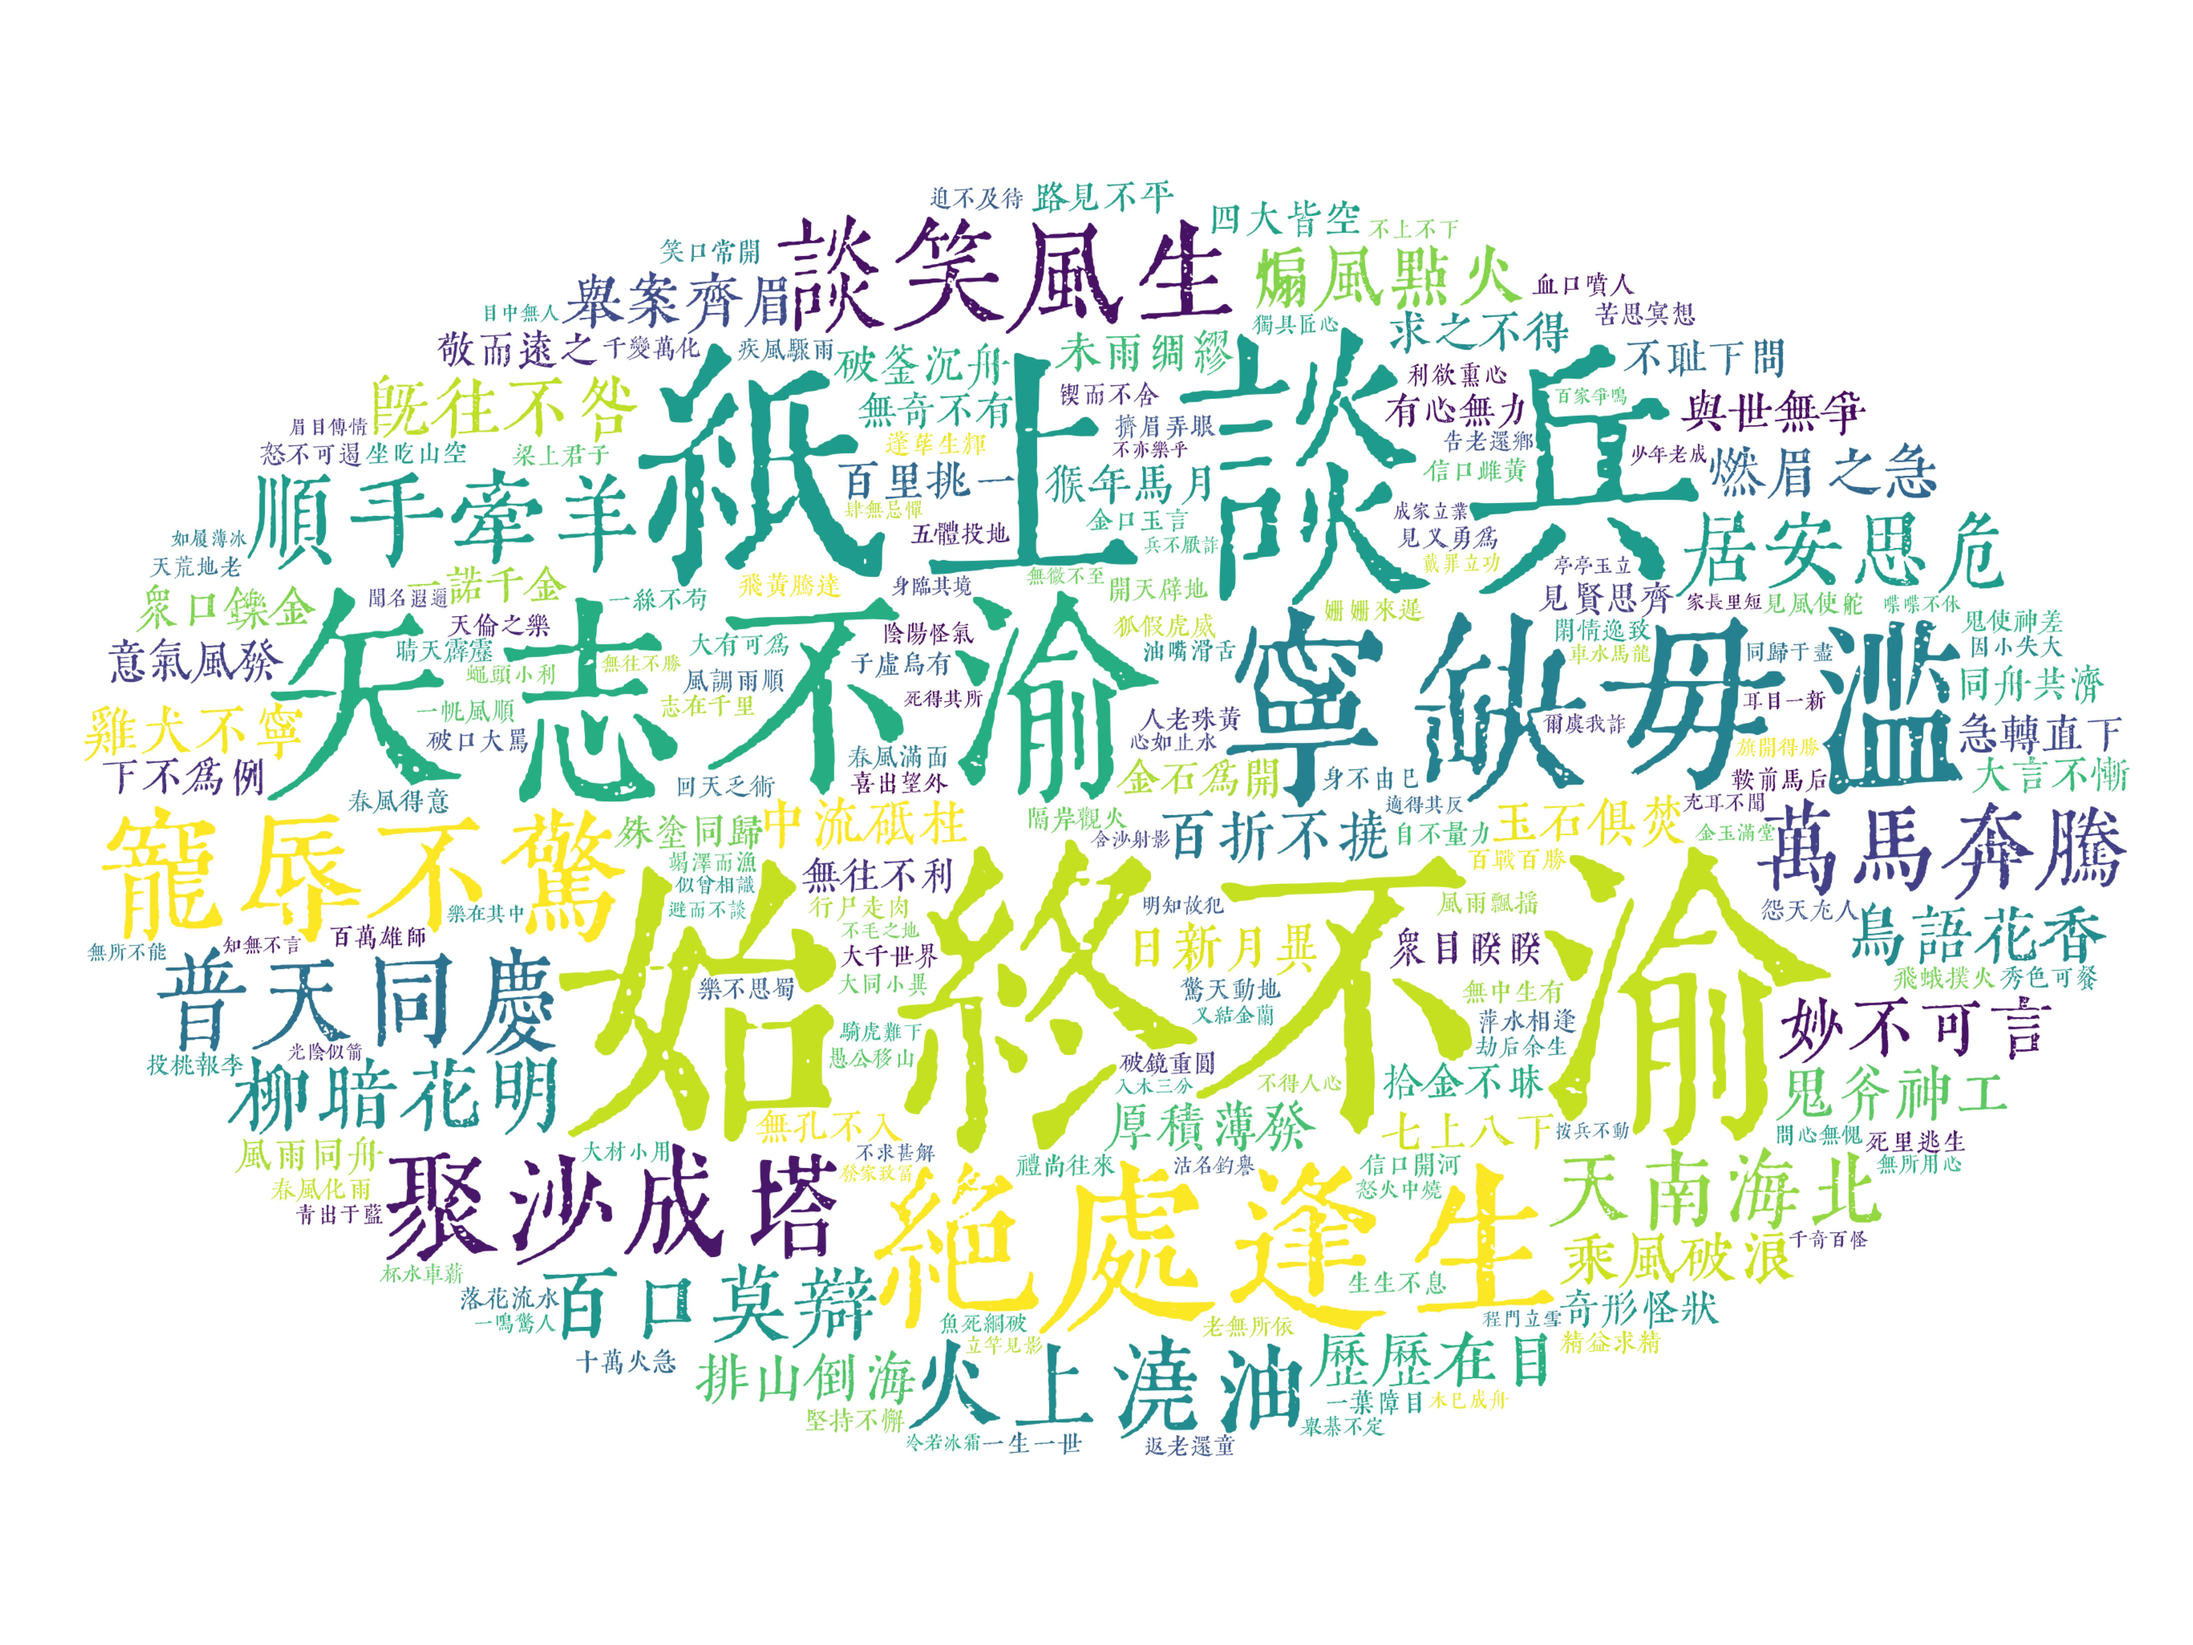
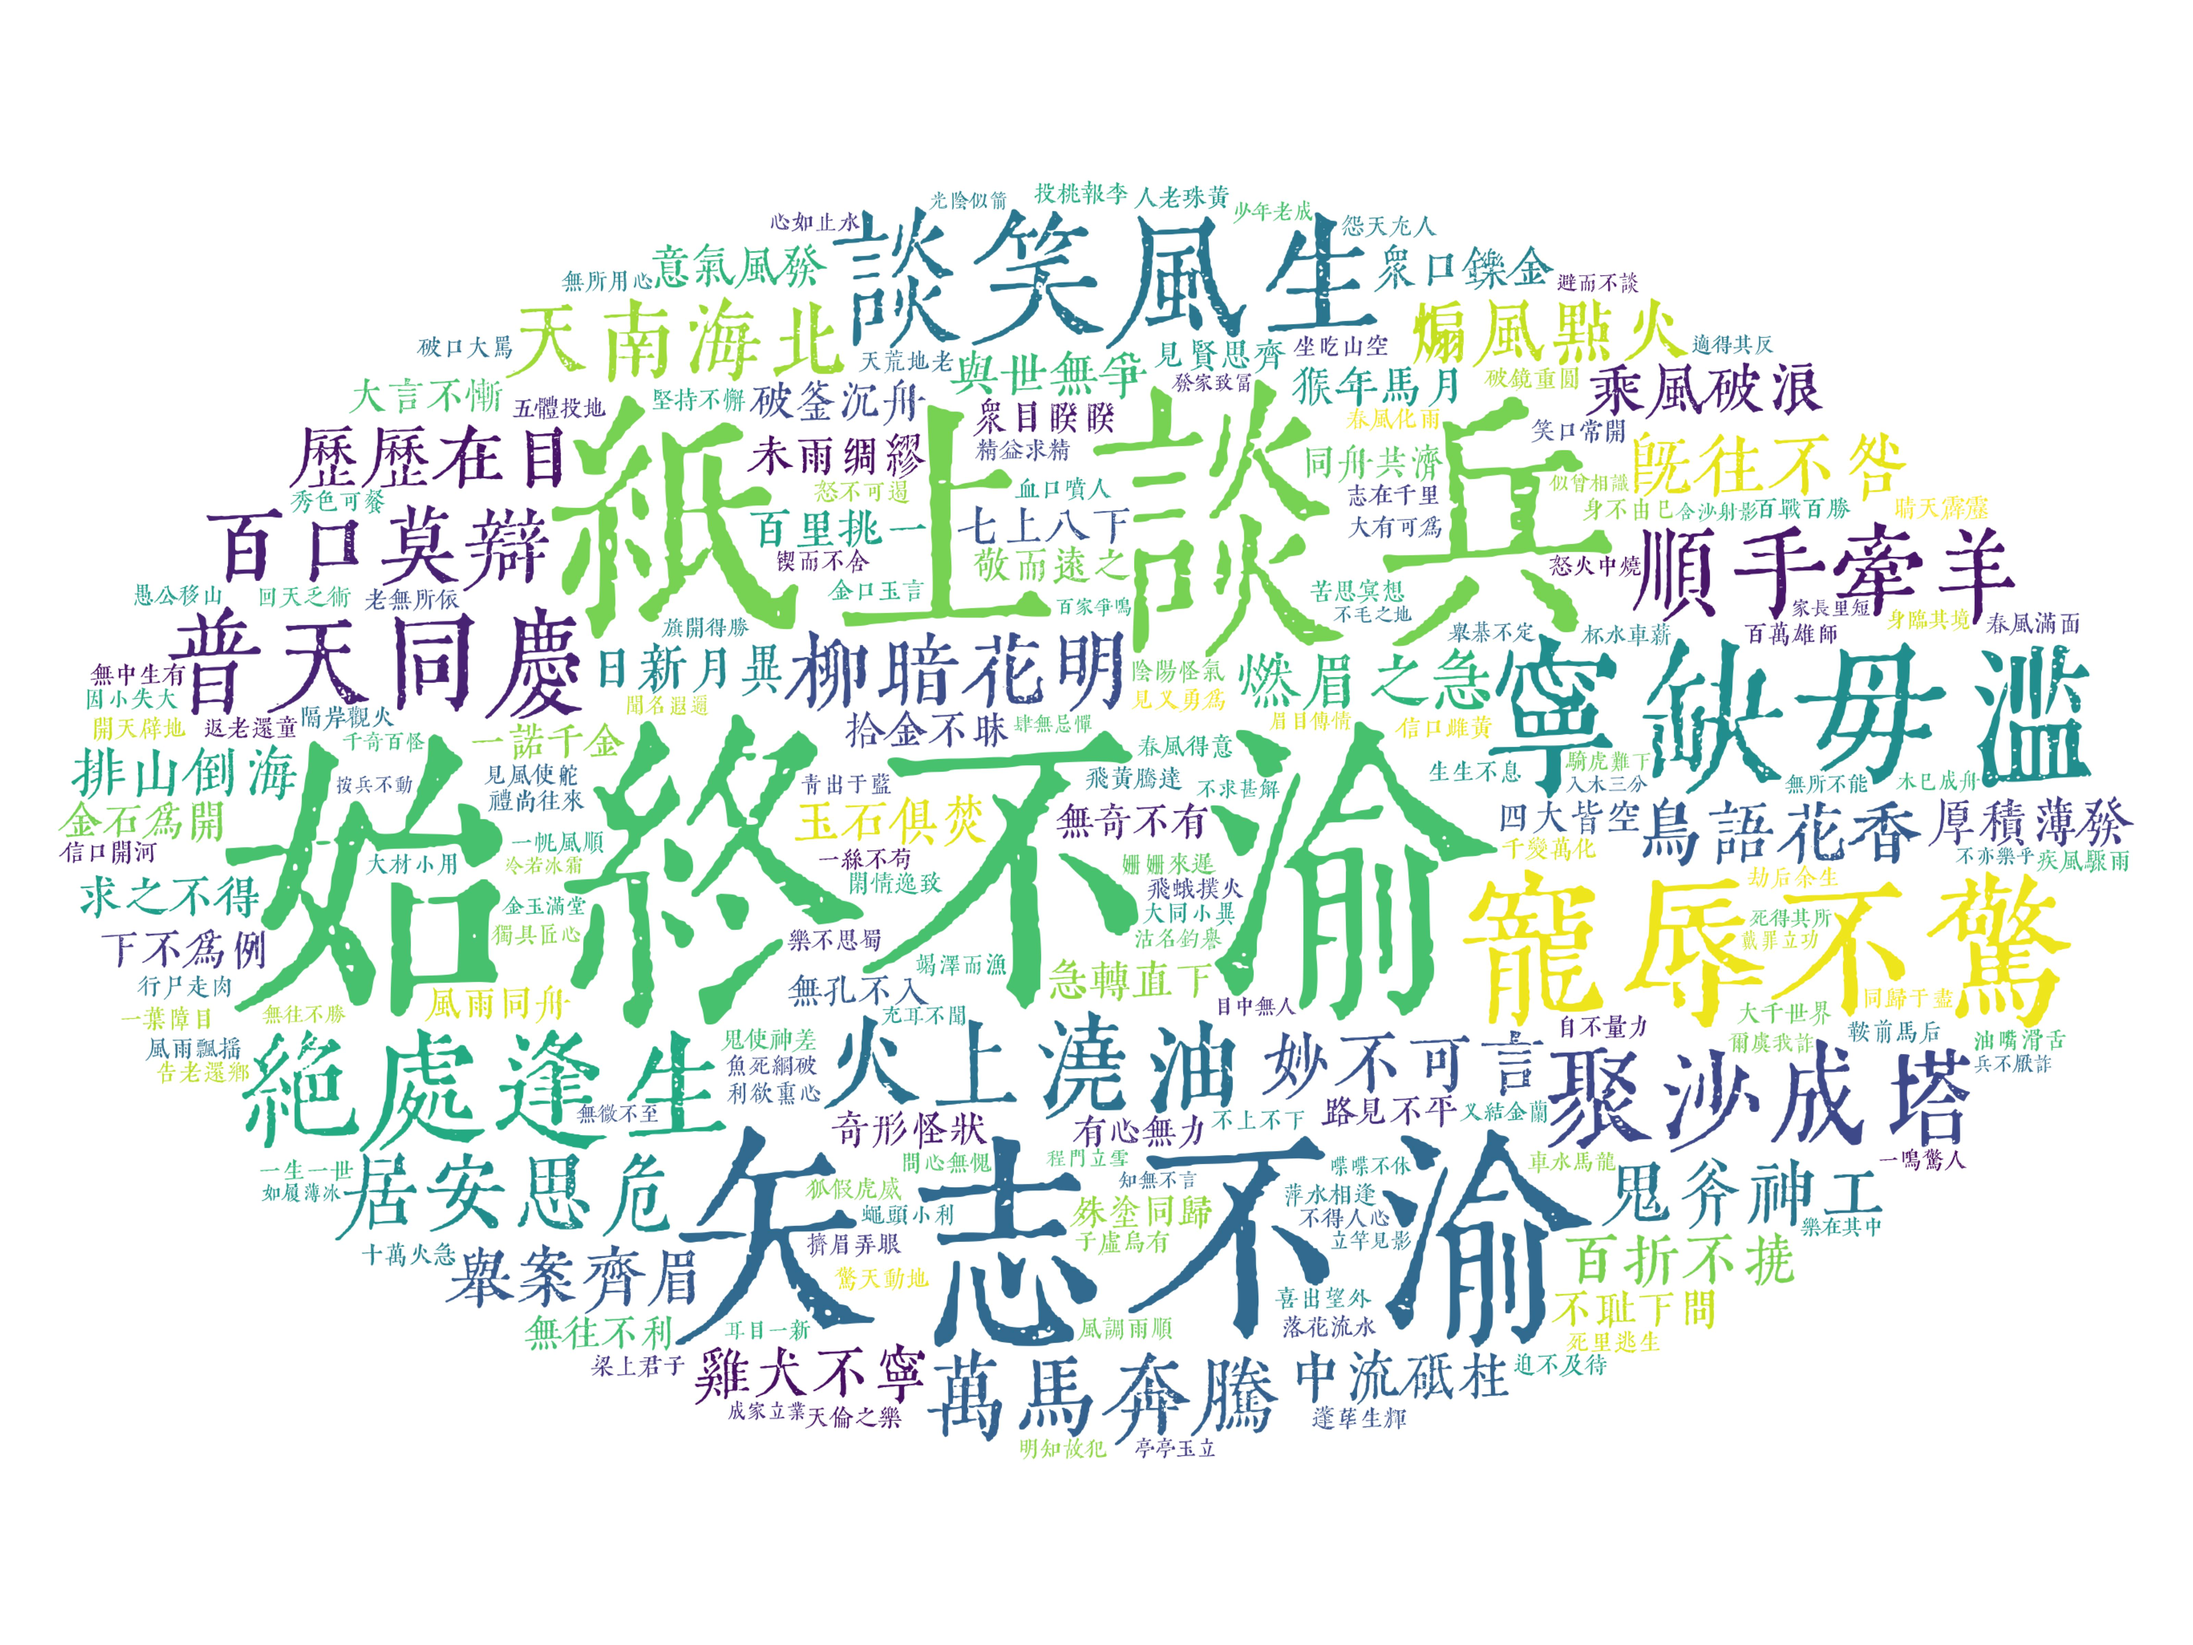
修正获取拼音的bug

Changed region(s): [[0.0312, 0.0938, 0.9688, 0.9062]]

diff --git a/summary.py b/summary.py
@@ -39,12 +39,29 @@ def sec_to_time_str(sec: int) -> str:
 
 def get_pinyin(idiom: str) -> tuple:
     """get initial, final and tone of single idiom"""
-    initial = pinyin(idiom, style=Style.INITIALS, strict=False)
-    final_tone: str = pinyin(idiom, style=Style.FINALS_TONE3)[0][0]
-    final = final_tone[0:-1]
-    tone = final_tone[-1]
+    initials = []
+    finals = []
+    tones = []
+    for char in idiom:
+        initial: str = list(
+            flatten(pinyin(char, style=Style.INITIALS, strict=False)))[0]
+        if initial == '':
+            initial = '_'
+        initials.append(initial)
 
-    return initial, final, tone
+        # TODO: 如何更优雅地分离字符串中的数字
+        final_and_tone: str = list(
+            flatten(pinyin(char, style=Style.FINALS_TONE3, strict=False)))[0]
+        # 只要字符串的最后一位是数字，有声调和韵母，添加tones和finals
+        if final_and_tone[-1].isdigit():
+            tones.append(final_and_tone[-1])
+            finals.append(final_and_tone[0:-1])
+        # 如果字符串的最后一位不是数字，代表没有声调，声调设置成'_'，韵母为整个字符串
+        else:
+            tones.append('_')
+            finals.append(final_and_tone)
+
+    return initials, finals, tones
 
 
 def read_idioms(idioms_file: TextIO) -> list:
@@ -107,10 +124,10 @@ def main():
 
     # update initial, final, and tone of idiom
     for idiom in idioms_list:
-        initial, final, tone = get_pinyin(idiom)
-        initials_list.append(initial)
-        finals_list.append(final)
-        tones_list.append(tone)
+        initials, finals, tones = get_pinyin(idiom)
+        initials_list.append(initials)
+        finals_list.append(finals)
+        tones_list.append(tones)
 
     # convert list to dict, all infos are true idiom
     idioms_dict = list_to_sorted_dict(idioms_list)
